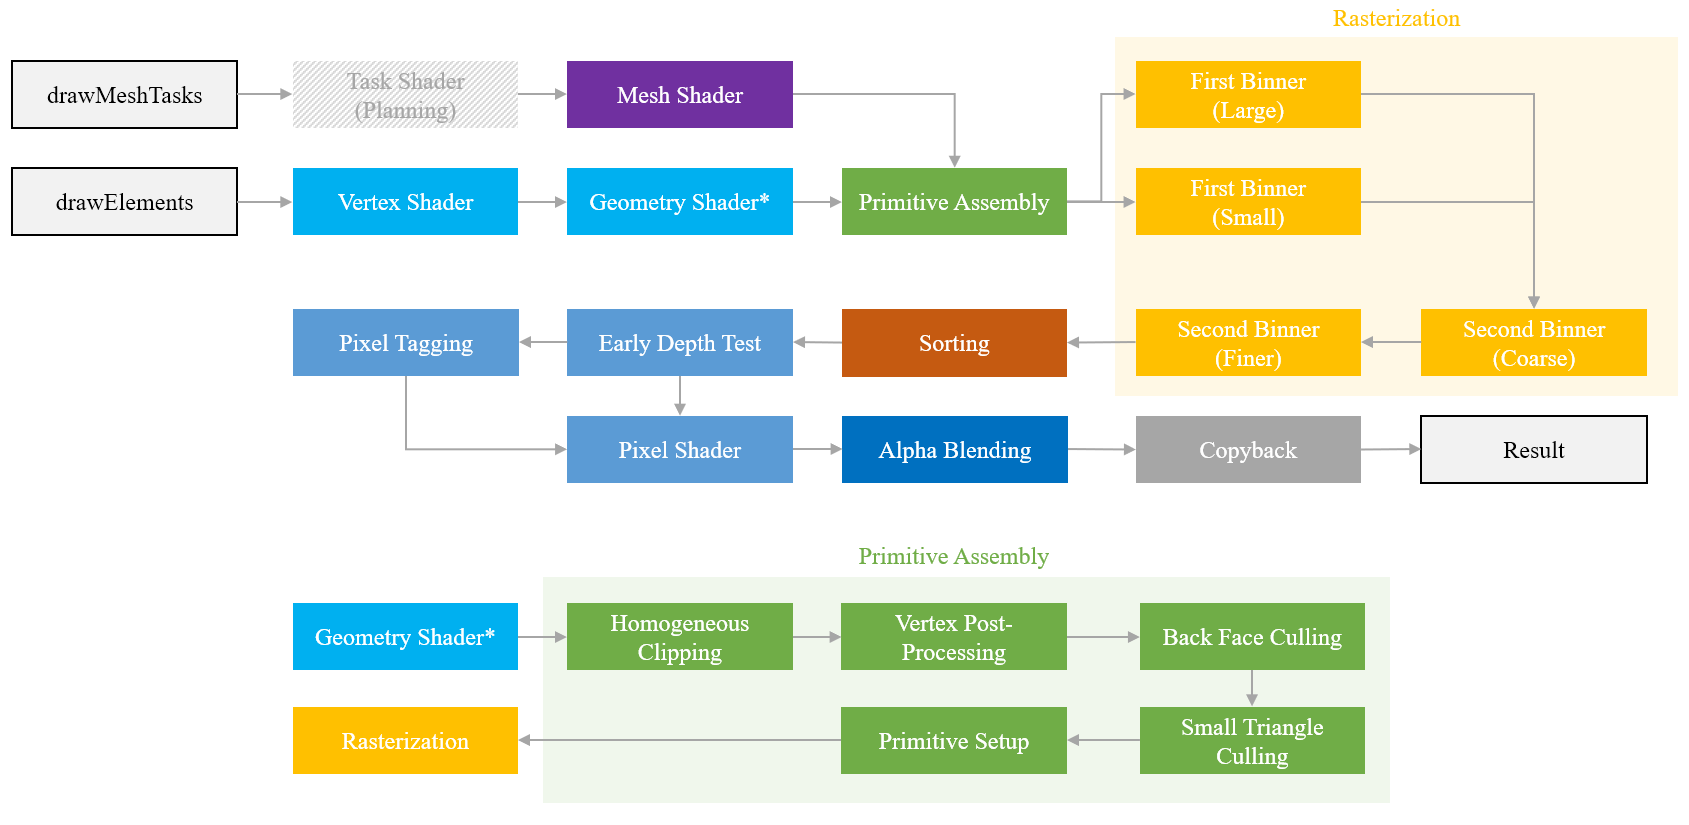
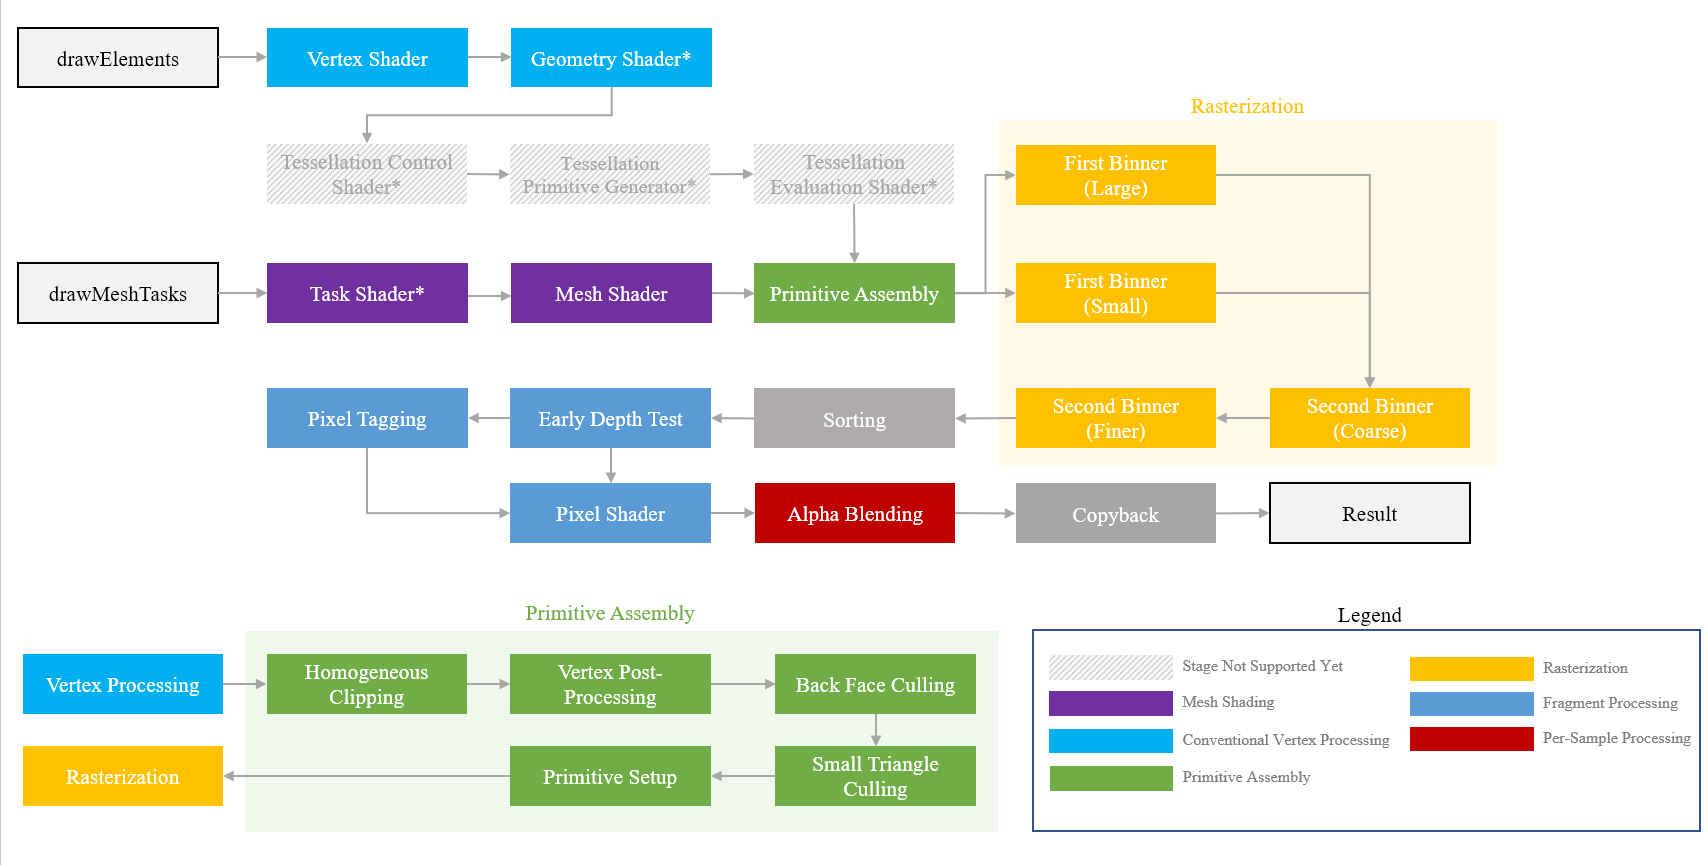
Feature: Task shader

diff --git a/src/engine/tilerastercuda/TileRasterRendererCuda.cpp b/src/engine/tilerastercuda/TileRasterRendererCuda.cpp
@@ -83,7 +83,13 @@ namespace Ifrit::Engine::TileRaster::CUDA {
 	void TileRasterRendererCuda::bindMeshShader(MeshShader* meshShader, VaryingDescriptor& varyingDescriptor, iint3 localSize) {
 		context->meshShader = meshShader;
 		context->meshShaderAttributCnt = varyingDescriptor.getVaryingCounts();
-		context->meshShaderBlockSize = localSize;
+		if (context->taskShader == nullptr) {
+			context->meshShaderBlockSize = localSize;
+		}
+	}
+	void TileRasterRendererCuda::bindTaskShader(TaskShader* taskShader, VaryingDescriptor& varyingDescriptor) {
+		context->taskShader = taskShader;
+		context->meshShaderAttributCnt = varyingDescriptor.getVaryingCounts();
 	}
 	void TileRasterRendererCuda::createTexture(int slotId, const IfritImageCreateInfo& createInfo) {
 		Invocation::createTexture(slotId, createInfo, nullptr);
@@ -209,6 +215,7 @@ namespace Ifrit::Engine::TileRaster::CUDA {
 			args.gMeshShaderLocalSize = context->meshShaderBlockSize;
 			args.gMeshShaderNumWorkGroups = context->meshShaderNumWorkGroups;
 			args.gMeshShaderAttributes = context->meshShaderAttributCnt;
+			args.dTaskShader = context->taskShader;
 		}
 
 		Invocation::invokeCudaRendering(args);

diff --git a/include/engine/tilerastercuda/TileRasterRendererCuda.h b/include/engine/tilerastercuda/TileRasterRendererCuda.h
@@ -53,10 +53,10 @@ namespace Ifrit::Engine::TileRaster::CUDA {
 	private:
 		void updateVaryingBuffer();
 		void internalRender(TileRasterRendererCudaVertexPipelineType vertexPipeType);
+		void initCuda();
 
 	public:
 		void init();
-		void initCuda();
 		void bindFrameBuffer(FrameBuffer& frameBuffer, bool useDoubleBuffer = true);
 		void bindVertexBuffer(const VertexBuffer& vertexBuffer);
 		void bindIndexBuffer(const std::vector<int>& indexBuffer);
@@ -64,6 +64,7 @@ namespace Ifrit::Engine::TileRaster::CUDA {
 		void bindFragmentShader(FragmentShader* fragmentShader);
 		void bindGeometryShader(GeometryShader* geometryShader);
 		void bindMeshShader(MeshShader* meshShader, VaryingDescriptor& varyingDescriptor, iint3 localSize);
+		void bindTaskShader(TaskShader* taskShader, VaryingDescriptor& varyingDescriptor);
 
 		void createTexture(int slotId, const IfritImageCreateInfo& createInfo);
 		void createSampler(int slotId, const IfritSamplerT& samplerState);

diff --git a/include/engine/tilerastercuda/TileRasterContextCuda.h b/include/engine/tilerastercuda/TileRasterContextCuda.h
@@ -21,15 +21,16 @@ namespace Ifrit::Engine::TileRaster::CUDA {
 	public:
 		// Non-owning Bindings
 		FrameBuffer* frameBuffer;
-		const VertexBuffer* vertexBuffer;
-		const std::vector<int>* indexBuffer;
+		const VertexBuffer* vertexBuffer = nullptr;
+		const std::vector<int>* indexBuffer = nullptr;
 		VertexShader* vertexShader;
 		FragmentShader* fragmentShader;
 		GeometryShader* geometryShader;
 		VaryingDescriptor* varyingDescriptor;
 
 		// == mesh shader ==
-		MeshShader* meshShader;
+		MeshShader* meshShader = nullptr;
+		TaskShader* taskShader = nullptr;
 		iint3 meshShaderBlockSize;
 		int meshShaderAttributCnt;
 		int meshShaderNumWorkGroups;

diff --git a/demo/MeshletDemo.cpp b/demo/MeshletDemo.cpp
@@ -127,12 +127,15 @@ namespace Ifrit::Demo::MeshletDemo {
 		vertexShaderLayout.setVaryingDescriptors({ TypeDescriptors.FLOAT4 });
 		
 		MeshletDemoCuMS meshShader;
+		MeshletDemoCuTS taskShader;
 		MeshletDemoCuFS fragmentShader;
 		auto dMeshShader = meshShader.getCudaClone();
+		auto dTaskShader = taskShader.getCudaClone();
 		auto dFragmentShader = fragmentShader.getCudaClone();
 
 		renderer->bindFragmentShader(dFragmentShader);
 		renderer->bindMeshShader(dMeshShader, vertexShaderLayout, { 1,1,1 });
+		renderer->bindTaskShader(dTaskShader, vertexShaderLayout);
 		renderer->setClearValues({ {0,0,0,0} }, 255.0);
 
 

diff --git a/README.md b/README.md
@@ -47,6 +47,7 @@ Overall framework for CUDA solid triangle renderer pipeline (Some are different 
 | Programmable Fragment Shader      | √                                                            | √               | √             |
 | Programmable Geometry Shader      |                                                              |                 | ▲             |
 | Programmable Mesh Shader          |                                                              |                 | ▲             |
+| Programmable Task Shader          |                                                              |                 | ▲             |
 | Alpha Blending                    |                                                              | √               | √             |
 | Depth Testing                     | √                                                            | √               | √             |
 | Depth Function                    |                                                              | √               | √             |
@@ -204,7 +205,7 @@ See `DOCS.md` for more details.
 - <s>Alpha Blending</s>
 
   - <s>Sorting</s>
-- Mesh Shader
+- <s>Mesh Shader</s>
 - Input Topology
 - Triangle Cluster & Cluster LOD
 - Known Issues
